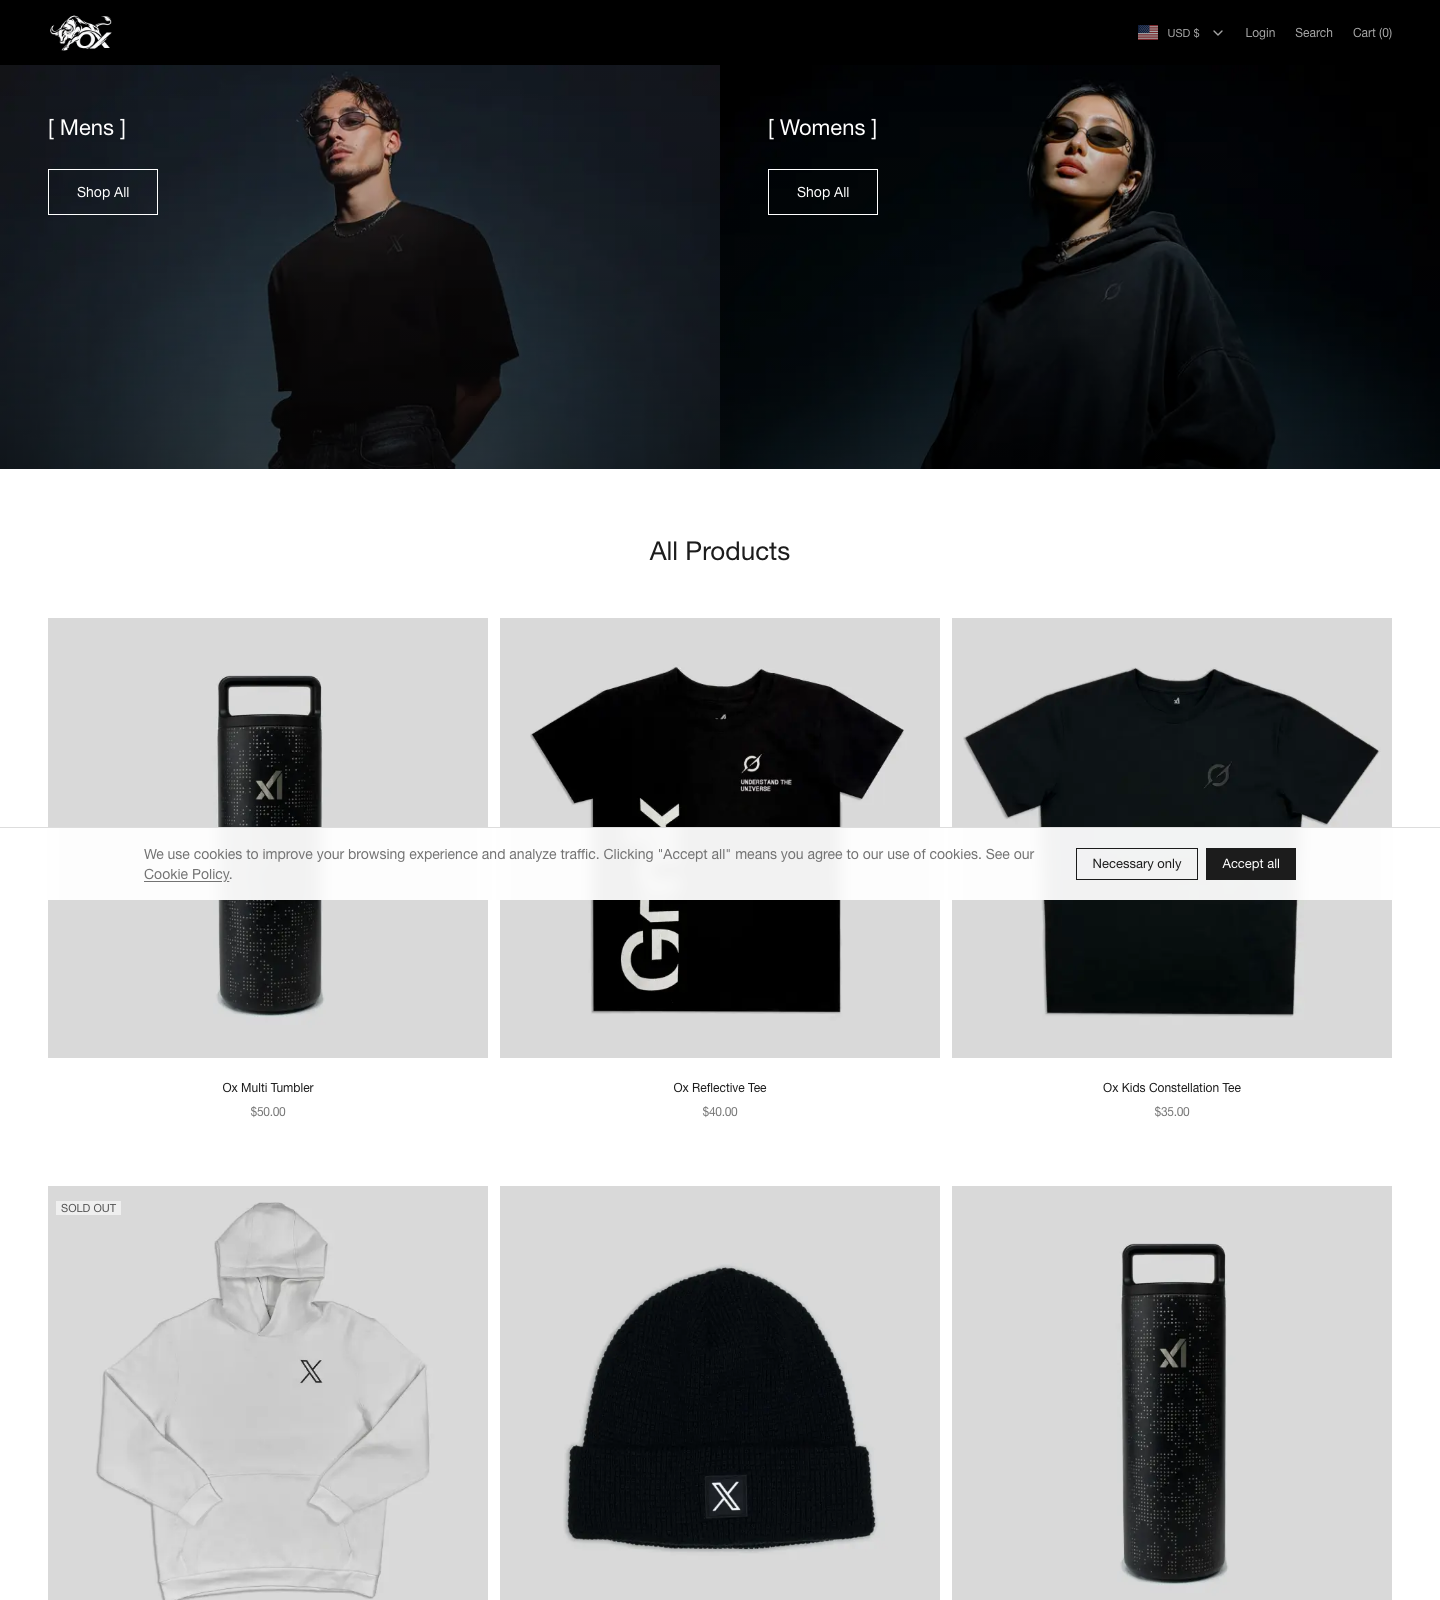
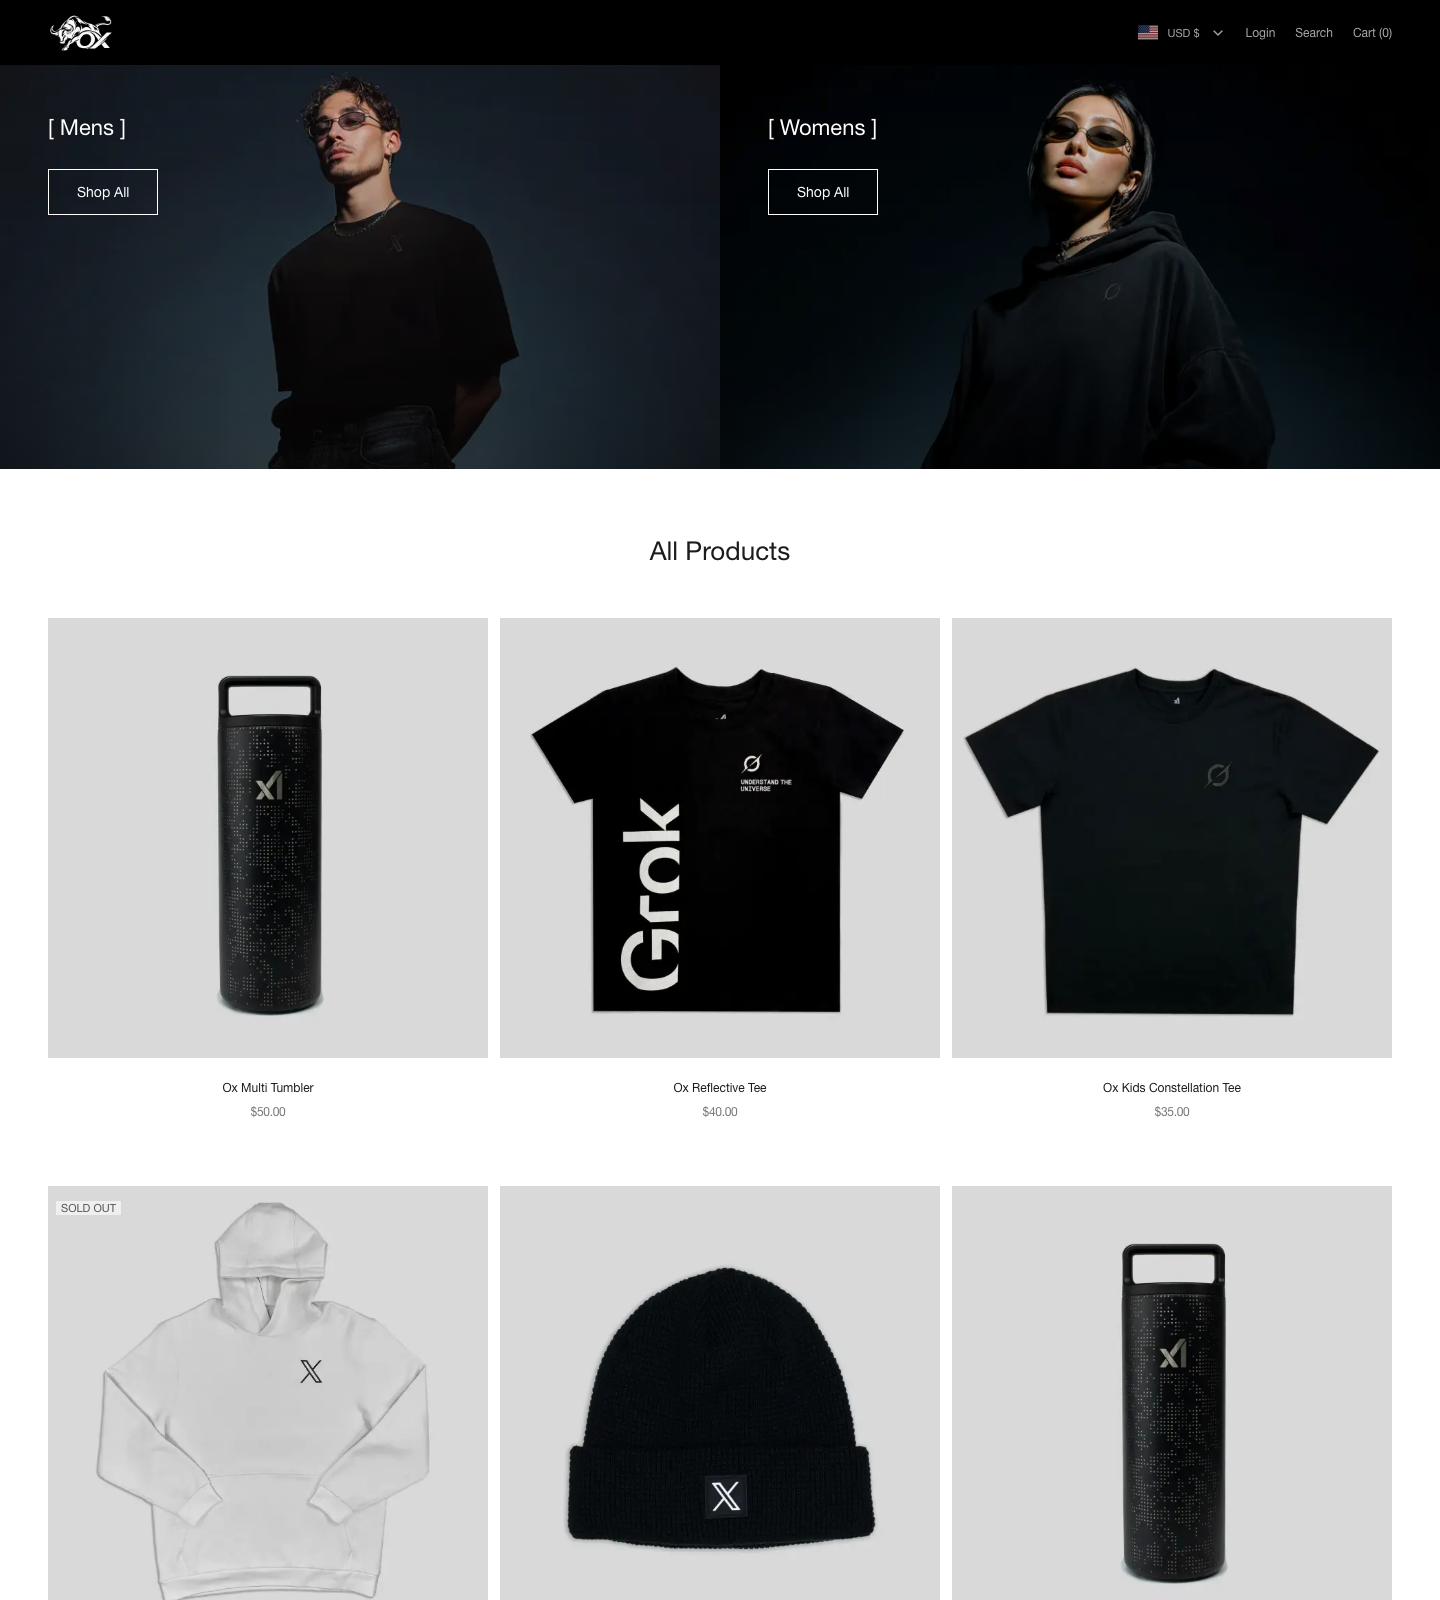
docs: 截图重拍——移植 CI 基线的 Cookie 横幅隐藏样式，横幅不再入镜
- 实拍脚本注入 tests/e2e/visual.spec.ts 同款 CSS（横幅是全局组件、
  挂载时机不定，不属于页面内容）
- 每页注入后经 DOM 验证 display:none 再截图（前台逐页「已隐藏=true」）
- 15 张重新统一：前台 1440×1600 / 后台 1440×900，品红扫描零污染

Changed region(s): [[0.0312, 0.5, 0.9688, 0.5625]]

diff --git a/CHANGELOG.md b/CHANGELOG.md
@@ -18,7 +18,10 @@
   十五张全部出自同一会话的生产构建真实渲染（同服务器/浏览器/种子数据/英文界面）；
   前台六张统一 **1440×1600**（长页顶部裁切、短页白底补齐——白底在 GitHub 白页上
   不可见，表格视觉整齐），后台九张统一 **1440×900** 视口规格；README 画廊重排为
-  3×2 网格；全部过品红扫描（Playwright mask 渲染色）零污染。
+  3×2 网格；全部过品红扫描（Playwright mask 渲染色）零污染。实拍脚本同步移植
+  CI 视觉基线的 Cookie 同意横幅隐藏样式（`tests/e2e/visual.spec.ts` 同款选择器
+  `.fixed.inset-x-0.bottom-0.z-50.border-t`）——横幅是全局组件且挂载时机不定，
+  不属于页面内容；每页注入后经 DOM 验证「已隐藏」再截图。
 - PDP 门面图去品红：视觉基线里 "You may also like" 区被 Playwright mask（业务上
   不锁基线），mask 渲染色即 rgb(255,0,255) 品红——直接搬进 README 当门面图成了
   半屏粉。换成真实全页截图（推荐区实拍商品卡）。
